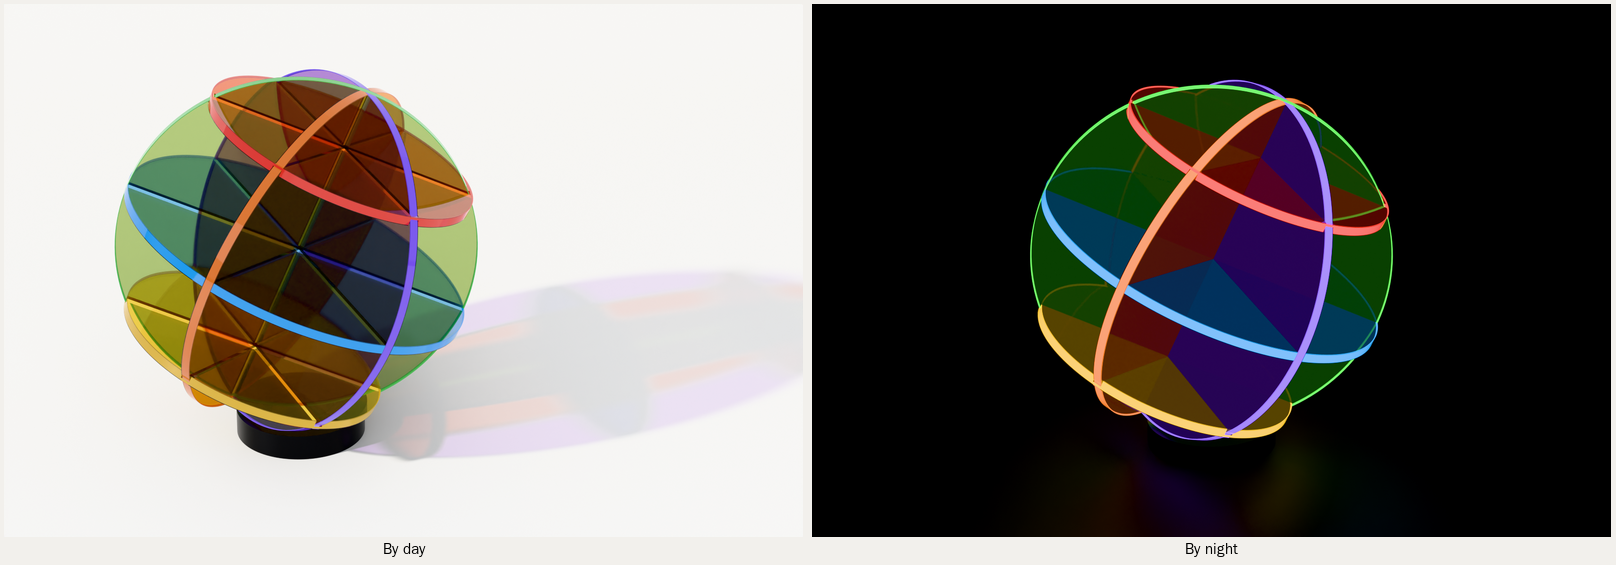
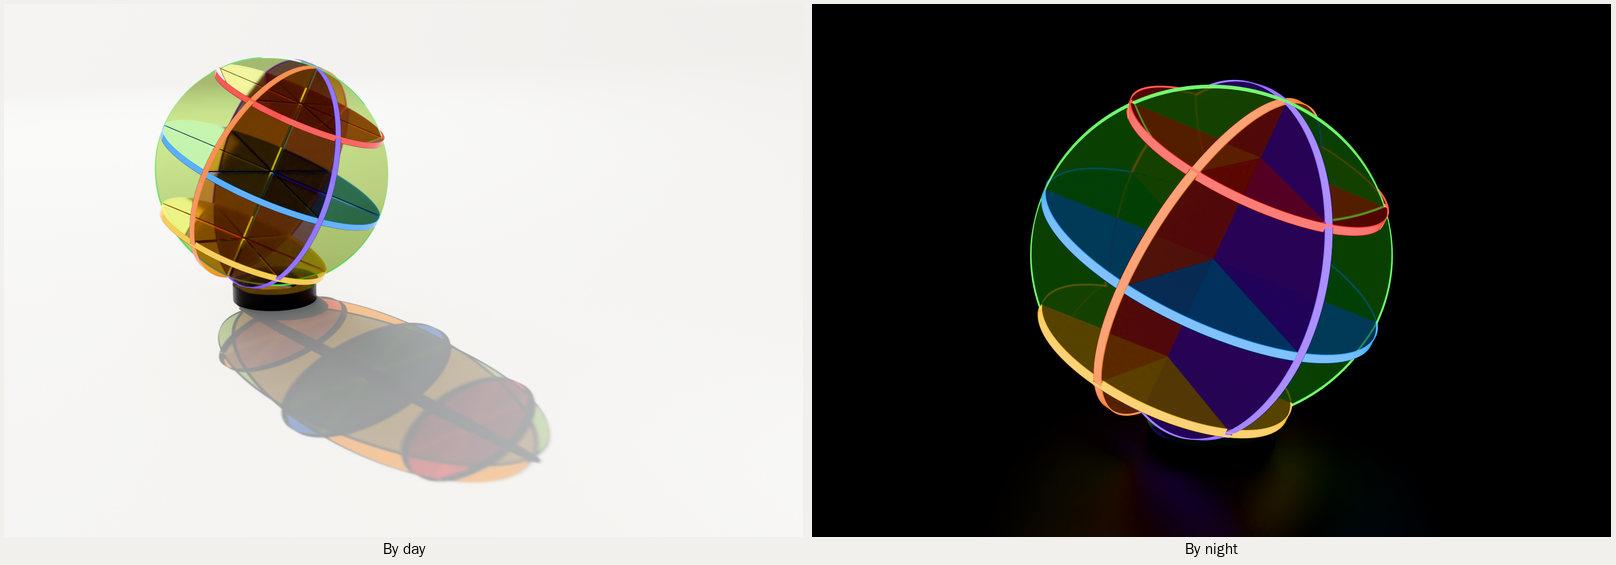
barkhorn round 33c: the colour globe's critic rounds (A 5.5, 6.0, 5.0; B 5.5, 5.5, 6.0), the duel (round 3, 4 of 4), its read test, the finals sheet and the README section
Claude-Session: https://claude.ai/code/session_01J6ZrBJKZRsQUm1C1TYugii

Changed region(s): [[0.0619, 0.0903, 0.3713, 0.8726], [0.3713, 0.5416, 0.4022, 0.5717]]

diff --git a/critic/LOG.md b/critic/LOG.md
@@ -683,3 +683,4 @@ its finals from the best rig, and put them to a blind duel against the runner-up
 | Moon | the bar lamps' trade hero (bar, smoked), round 32 | 5.5, 5.5, 6.0 | 6.0 (p3; three rounds, the family's limit) | | p1: the table floated; the domes salmon; the column and disc black; no bar; the underside clipped. p2: no pool of the lamp's own; the column and disc still black; the wall a murk; CG bottles. p3, open: the column still reads dark (the smoked tint is dense); the pendant's underside clips and is soft; the wall shows no boards; mono-orange at 3600 K; the bar front and the apron dead bands |
 | Orb and Dome | the bar lamps' trade hero (bar, smoked), round 32d | 5.0, 5.0, 5.0 | 5.0 (p3; three rounds, the family's limit) | | p1: the ball a flat pale disc; it lit nothing; dry planks; the base crushed. p2: the smoked ball cream (the tint cast too light, fixed in the product); a crescent (the lamp off-centre, fixed); a softbox glint; no pools. p3, open: mono red-orange (the counter red lacquer at 3200 K); the smoked ball milky with no hot core; the base dark; the pendant's underside pale; the pools two spots; the wall flat |
 | EARFcoin | the coin's hero (one Acid coin on a bar's zinc, low light), round 33; two fresh critics a round (PROMPT-promo.md via companions/promo.py, kind coin) | A 6.0, 6.0, 5.0; B 5.5, 6.0, 5.5 | 6.0 / 6.0 (round 2, kept as the final; three rounds, the family's limit) | | r1: focus on the far rim, the globe soft; the face muddy; the counter mauve concrete; no bar (the card wrongly said white lines: the globe is black-filled since the fill test; corrected). r2: focus on the globe at f/9, a satin zinc, the lamps in its sheen; open: the face still a dark amber, the bokeh large and clipping, the counter a CG plane. r3: a white cocktail napkin under the coin (the face glowed, the globe crisp) but both critics wanted it gone (it outshone the coin; not in the brief) and shallow focus back: the critics pulled against round 2's asks. Gate: A two passes in a row under +0.5 (0, -1.0); B +0.5 then -0.5. Read tests pass (critic/coin/READTEST.md) |
+| EARF globe in colour | the day final (the 300 desk piece on paper, a hard sun through it), round 33c; two fresh critics a round (PROMPT-promo.md, kind globe) | A 5.5, 6.0, 5.0; B 5.5, 5.5, 6.0 | round 3 (three rounds, the family's limit), by a position-balanced duel against round 2: 4 of 4 | r3 over r2, 4/4 (two judges, both orders) | r1: the fills washed the coloured cast to grey; a soft sun; the cast off frame; edges flat. r2: the fills down, a hard sun, a rim, edges stronger; open: the sun on the camera's side, the core dark. r3: the sun behind (the sweep's wall had shaded it, so a flat paper sheet), the coloured shadow falling forward as stained glass; open: a grey veil on the shadow, the paper textureless, the base crushed, the core where four tints stack. The gate (two passes each gaining under 0.5) not met by either critic in three rounds |

diff --git a/spinoffs/barkhorn/companions/README.md b/spinoffs/barkhorn/companions/README.md
@@ -704,6 +704,38 @@ room's measured drift (`TINT_K`, `HUE_TURN`).
 | 300 desk, clear tints 8 mm, plain base | about $450 | about $160 | $395 to $450 |
 | 1000 bar, clear tints 25 mm, steel base | about $6,500 (sheet about $3,000, cutting $900, polish $900, assembly $1,000, base $700) | (a few a year) | **$8,500 to $9,500** |
 
+**The finals** (1600 × 1067, `renders/2026-10-20/barkhorn/globe-colour/`), both of the desk piece:
+- **By day:** on paper under a hard sun from behind. The fluorescent edges glow, and the globe throws a stained-glass
+  shadow of red, orange, yellow and blue toward the viewer.
+- **By night:** on black with the ring on, each edge glowing its colour as the site's dark-mode globe does.
+
+![The finals](../../../renders/2026-10-20/barkhorn/globe-colour/sheet-finals.png)
+
+**Read tests** (600 px, a fresh judge told nothing; `critic/coin/READTEST.md`):
+- Day: "a translucent… sphere… with several colored translucent discs… like an armillary sphere… casting a big tinted
+  elliptical shadow".
+- Night: "a glowing… sphere… coloured neon-like rings… around a translucent ball". It reads as a computer render, and
+  the judge didn't say acrylic.
+
+**Critics** on the day final, two fresh critics a round, three rounds (the family's limit):
+
+| round | A | B |
+|---|---|---|
+| 1 | 5.5 | 5.5 |
+| 2 | 6.0 | 5.5 |
+| 3 | 5.0 | 6.0 |
+
+- Neither critic met the gate (two passes in a row each gaining under 0.5).
+- Round 2 against round 3 went to a position-balanced duel: two judges, each shown both orders. Round 3 won 4 of 4,
+  for its long stained-glass shadow, so it is the final; round 2 is kept as `final-day-r2.png`.
+- **Open on the day final:**
+  - a grey veil over the coloured shadow;
+  - the paper has no texture;
+  - the black base is crushed;
+  - the core goes dark where four tints stack.
+  The critics also want the edges brighter than the faces. That is the fluorescent sheet's real strength, which a
+  sample should settle.
+
 **For Planet:** `globe(size, mode)` in `studio/engine/kit_ext/earf_coin.py`.
 - `size` is in mm across: 300 for the desk piece, 1000 for the back bar's.
 - `mode` is "day" or "night"; `glow` scales the night edges.

diff --git a/critic/coin/READTEST.md b/critic/coin/READTEST.md
@@ -17,3 +17,4 @@ about the objects, their material and anything marked on them". Verbatim answers
 |---|---|---|
 | day (`globe-colour/final-day.png`) | "It's a 3D render of a sphere made of translucent coloured acrylic panels, standing on a short black cylindrical base on a plain white surface. Green, dark teal, amber, orange and yellow half-disc and wedge planes slot into each other at the centre like a cut-open globe. Opaque-looking bands in red, orange, blue and purple ring it at different angles, like an armillary sphere or an exploded gyroscope, and it casts a long tinted shadow to the right. Nothing on it is printed, written or marked: there's no text, logo or label." | yes: a globe of coloured acrylic discs |
 | night (`globe-colour/final-night.png`) | "It's a computer-rendered, glowing wireframe sphere on a black background: five coloured neon-like rings (green, blue, red, orange and purple) cross around a translucent ball whose faces are tinted green, blue, red, purple and yellow, and it shows a faint reflection beneath it, but nothing is printed, written or marked on it." | yes, softer: a sphere of coloured rings ("wireframe", "computer-rendered"); it doesn't say acrylic |
+| day, final (`globe-colour/final-day.png`, round 3) | "It's a computer render of a translucent lime-green sphere sitting on a small black cylindrical base on a plain white floor, with several colored translucent discs inside it at different angles (red, orange, yellow, blue, purple and a dark teal or brown one), each edged with a bright colored ring like an armillary sphere or a gyroscope, casting a big tinted elliptical shadow to the lower right, and I can't see any text, logo or markings on it." | yes: a globe of coloured translucent discs, its tinted shadow |
